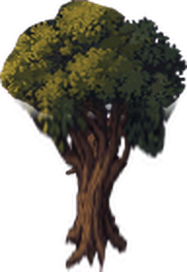
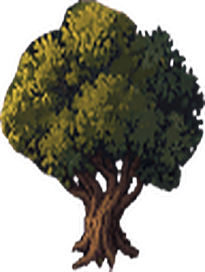
Stop stretching the trees, and paint the brook at brush size
The tall trees were grown by stretching the trunk, which magnified the
painted root flare into splayed legs and dragged leaf lobes down beside the
trunk - the leftovers the user could still see. Both trees are now the
world's own paintings scaled whole: one height factor, one width bias, no
spliced regions, so the trunk and roots keep their authored proportions.

The brook was airbrushed soft at 1:1 because its detail was smaller than a
screen pixel. It is now quantised to six values and repainted with
brush-sized strokes (2-4 px thick, 10-40 px long) along the current, with
broken foam on the upstream rim of every stone. The protected bank, stones
and crossing are still byte-identical.

diff --git a/tools/art/build_tall_trees.py b/tools/art/build_tall_trees.py
@@ -1,18 +1,22 @@
 #!/usr/bin/env python3
 """Build the mature olive and fig used by the painted overworld.
 
-WHY THIS EXISTS (second pass): the first tall trees were painted from new
-high-detail sources — thin bark lines and individual leaves. At the size the
-game draws them (nearly 1:1 on a phone) they read as photographs dropped into a
-chunky painted world: the user said the trees "look out of place" beside the
-characters and the sheep. The trees are now grown from the overworld's *own*
-accepted tree paintings — the same rounded masses, thick trunk, warm palette and
-soft edge — stretched upright: the canopy keeps its authored brushwork and the
-trunk is lengthened, so the tree gains height without gaining a new style.
+WHY THIS EXISTS (third pass): the second pass grew the tall trees by stretching
+the source's trunk. That gained height, but it also magnified the painted root
+flare into long splayed "legs" and dragged leaf lobes down beside the trunk, so
+the user still saw a foreign object with the old tree's leftovers in it.
+
+The trees are now the overworld's own tree paintings, scaled whole: one uniform
+factor to the authored canvas height, then a single horizontal bias that keeps
+the tree upright rather than letting the canopy spread square. Nothing is
+re-drawn, nothing is spliced, and no region is stretched relative to another, so
+the trunk keeps its authored proportions, the roots stay the size the source
+painted them, and every pixel is a resampled pixel of the accepted art. An
+unsharp pass restores the crisp painted edge that plain interpolation softens.
 
 The canvases stay foot-anchored (the last row of alpha is the trunk base), keep
-the runtime's 82/78 world-pixel target, and add no new colours: every pixel is a
-resampled pixel of the source painting. Pillow 13.0.0 reproduces them exactly.
+the runtime's 82/78 world-pixel targets, and add no new colours. Pillow 13.0.0
+reproduces them exactly.
 """
 from pathlib import Path
 import argparse
@@ -22,13 +26,11 @@ from PIL import Image, ImageFilter
 PROPS = Path("art/props_painted")
 OUTPUT = Path("art/props_painted")
 
-# source, canvas height, canopy split (fraction of the cropped art),
-# canopy scale (x, y), trunk scale (y). Width follows the source aspect.
+# output, source, canvas height, horizontal bias, unsharp percent
 TREES = (
-    ("olive_tree_tall.png", "olive_tree.png", 276, 0.70, (1.75, 1.60), 2.0),
-    ("fig_tree_tall.png", "fig_tree_refined.png", 272, 0.68, (2.00, 1.85), 2.2),
+    ("olive_tree_tall.png", "olive_tree.png", 276, 1.30, 95),
+    ("fig_tree_tall.png", "fig_tree_refined.png", 272, 1.30, 95),
 )
-OVERLAP = 14
 
 
 def despill(image):
@@ -38,129 +40,39 @@ def despill(image):
     toward their own luminance in the bark/leaf range, so genuine warm highlights
     (fig flesh, sunlit trunk) survive.
     """
-    image = image.convert("RGBA")
     pixels = image.load()
     for y in range(image.height):
         for x in range(image.width):
             r, g, b, a = pixels[x, y]
-            if a == 0:
+            if a == 0 or a == 255:
                 continue
-            if r > 70 and b > 70 and g < min(r, b) * 0.72 and min(r, b) - g > 24:
-                lum = r * 0.299 + g * 0.587 + b * 0.114
-                pixels[x, y] = (round(lum * 0.92), round(lum * 0.96),
-                                round(lum * 0.72), round(a * 0.55))
+            if r > 120 and b > 110 and g + 30 < min(r, b):
+                lum = round(0.30 * r + 0.59 * g + 0.11 * b)
+                ink = min(lum, 96)
+                pixels[x, y] = (ink, max(0, ink - 6), max(0, ink - 12), a)
     return image
 
 
-def _clean_edge(image):
-    """Neutralise the salmon fringe the props inherited from their chroma key.
-
-    The published prop paintings keep a one-pixel warm rim where the generated
-    source met the magenta background. At the old small size it read as sunlight;
-    enlarged, it reads as a dotted pink outline, which is exactly the sort of
-    detail that made the first tall trees look foreign. Fringed pixels take the
-    median of their opaque, non-fringed neighbours.
-    """
-    image = image.copy()
-    width, height = image.size
-    original = image.load()
-    fringed = []
-    for y in range(height):
-        for x in range(width):
-            r, g, b, a = original[x, y]
-            if a > 40 and r > 130 and r - g > 22 and g - b > 4:
-                fringed.append((x, y))
-    pixels = image.load()
-    for x, y in fringed:
-        candidates = []
-        for dy in range(-2, 3):
-            for dx in range(-2, 3):
-                nx, ny = x + dx, y + dy
-                if not (0 <= nx < width and 0 <= ny < height):
-                    continue
-                r, g, b, a = original[nx, ny]
-                if a < 200 or (r > 130 and r - g > 22 and g - b > 4):
-                    continue
-                candidates.append((r, g, b))
-        if candidates:
-            candidates.sort(key=lambda c: c[0] * 0.299 + c[1] * 0.587 + c[2] * 0.114)
-            r, g, b = candidates[len(candidates) // 2]
-            pixels[x, y] = (r, g, b, original[x, y][3])
-    return image
-
-
-def _feather(image, rows, bottom=True):
-    """Fade one horizontal edge of a layer so the join is not a straight cut."""
-    alpha = image.getchannel("A")
-    pixels = alpha.load()
-    for i in range(min(rows, image.height)):
-        y = image.height - 1 - i if bottom else i
-        scale = (i + 1) / (rows + 1)
-        for x in range(image.width):
-            pixels[x, y] = round(pixels[x, y] * scale)
-    image.putalpha(alpha)
-    return image
-
-
-def _sharpen(image):
-    """Keep the brush edges crisp after a 1.5-3x resample."""
-    r, g, b, a = image.split()
-    rgb = Image.merge("RGB", (r, g, b)).filter(
-        ImageFilter.UnsharpMask(radius=2, percent=40, threshold=2))
-    r, g, b = rgb.split()
-    return Image.merge("RGBA", (r, g, b, a))
-
-
-def grow(source, height, split, canopy_scale, trunk_scale):
-    """Stretch one painted tree upright without introducing new detail.
-
-    The canopy and trunk are one painting, so the tree is first enlarged whole
-    (keeping its brushwork and silhouette), then only the trunk is lengthened:
-    the part below the canopy is resized again and cross-faded into the base
-    over a band that contains nothing but bark. There is no straight seam and
-    no second art style.
-    """
-    art = despill(Image.open(PROPS / source))
-    bounds = art.getchannel("A").getbbox()
+def grow(source, height, bias, unsharp):
+    """Scale the accepted painting whole: one height factor, one width bias."""
+    with Image.open(PROPS / source) as raw:
+        image = despill(raw.convert("RGBA"))
+    bounds = image.getchannel("A").getbbox()
     if bounds is None:
-        raise ValueError("empty tree source: " + source)
-    art = art.crop(bounds)
-    art = _clean_edge(art)
-    width = max(1, round(art.width * canopy_scale[0]))
-    body = art.resize((width, max(1, round(art.height * canopy_scale[1]))),
-                      Image.Resampling.LANCZOS)
-
-    cut = max(1, min(body.height - 2, round(art.height * split * canopy_scale[1])))
-    band = min(24, cut // 2)
-    lower = body.crop((0, cut - band, body.width, body.height))
-    target = height - (cut - band)
-    if target <= lower.height:
-        raise ValueError("tree target is not taller than the source: " + source)
-    stretch = (target - lower.height) / max(1, (body.height - (cut - band)))
-    scale = max(trunk_scale, 1.0 + stretch)
-    lower = lower.resize((lower.width, max(lower.height + 1, round(lower.height * scale))),
-                         Image.Resampling.LANCZOS)
-
-    alpha = lower.getchannel("A")
-    pixels = alpha.load()
-    for y in range(min(band, lower.height)):
-        weight = (y + 1) / (band + 1)
-        for x in range(lower.width):
-            pixels[x, y] = round(pixels[x, y] * weight)
-    lower.putalpha(alpha)
-
-    canvas = Image.new("RGBA", (body.width, max(height, cut - band + lower.height)), (0, 0, 0, 0))
-    canvas.alpha_composite(body, (0, 0))
-    canvas.alpha_composite(lower, (0, cut - band))
-    top = canvas.getchannel("A").getbbox()
-    canvas = canvas.crop((0, 0, canvas.width, top[3]))
-    return canvas.resize((round(canvas.width * height / canvas.height), height),
-                         Image.Resampling.LANCZOS)
+        raise SystemExit("empty source painting: " + source)
+    image = image.crop(bounds)
+    factor = height / image.height
+    width = max(1, round(image.width * factor / bias))
+    scaled = image.resize((width, height), Image.LANCZOS)
+    if unsharp:
+        scaled = scaled.filter(ImageFilter.UnsharpMask(radius=1.2, percent=unsharp,
+                                                       threshold=0))
+    return scaled
 
 
 def build():
-    return {name: grow(source, height, split, canopy, trunk)
-            for name, source, height, split, canopy, trunk in TREES}
+    return {name: grow(source, height, bias, unsharp)
+            for name, source, height, bias, unsharp in TREES}
 
 
 def main():

diff --git a/tools/art/river_detail.py b/tools/art/river_detail.py
@@ -61,8 +61,8 @@ OVERLAP = 110
 # Water is smoother than grass: detail is added at a lower gain and the source
 # field is stretched horizontally first so the strokes read as current rather
 # than as generic texture.
-FINE_GAIN = 0.30
-MID_GAIN = 0.26
+FINE_GAIN = 0.22
+MID_GAIN = 0.20
 COARSE_GAIN = 0.20
 TEAL = (92, 124, 136)
 TEAL_AMOUNT = 0.30
@@ -385,6 +385,103 @@ def _sun_glints(image, mask, seed=5521):
                                  layer.filter(ImageFilter.GaussianBlur(0.5))).convert("RGB")
 
 
+def _posterise(image, mask, levels=6, strength=0.85):
+    """Pull the surface onto a small set of values so it stops looking airbrushed.
+
+    A smooth gradient at 1:1 reads as blur however much grain sits on it; the
+    meadow next to it is crisp because it is built from a handful of flat
+    values. This quantises the water's own luminance into bands and scales each
+    pixel's colour to its band, keeping every hue the painting already has.
+    """
+    import numpy as np
+    rgb = np.asarray(image, np.float32)
+    m = np.asarray(mask, np.uint8) > 200
+    if not m.any():
+        return image
+    lum = rgb @ np.array([0.30, 0.59, 0.11], np.float32)
+    values = lum[m]
+    edges = np.quantile(values, np.linspace(0, 1, levels + 1)[1:-1])
+    band = np.searchsorted(edges, lum, side="right")
+    values = lum[m]
+    band_m = band[m]
+    target = np.array([np.median(values[band_m == i]) if (band_m == i).any() else 0.0
+                       for i in range(levels)], np.float32)[band]
+    scale = np.clip(target / np.maximum(lum, 1.0), 0.55, 1.55)
+    out = rgb * (1.0 + (scale[..., None] - 1.0) * strength)
+    # quantising flattens saturation, so put the stream's own colour back
+    grey = (out @ np.array([0.30, 0.59, 0.11], np.float32))[..., None]
+    out = grey + (out - grey) * 1.20
+    return Image.fromarray(np.clip(out, 0, 255).astype(np.uint8), "RGB")
+
+
+def _flow_strokes(image, mask, seed=6037):
+    """Hard 1-pixel strokes along the current: the detail a brush leaves.
+
+    Soft round dabs average into mush at this scale, so the fine pass is made of
+    short, straight, one-pixel strokes with hard edges, alternating dark
+    undertow and light crest along a slow noise field.
+    """
+    import numpy as np
+    width, height = image.size
+    rgb = np.asarray(image, np.float32)
+    m = np.asarray(mask, np.uint8) > 216
+    rng = random.Random(seed)
+    ys, xs = np.nonzero(m)
+    if len(ys) == 0:
+        return image
+    noise = Image.effect_noise((width, height), 48).point(lambda v: v)
+    field = np.asarray(noise.filter(ImageFilter.GaussianBlur(6)), np.float32) / 255.0
+    out = rgb.copy()
+    # Detail smaller than a screen pixel blurs into mush, so the strokes are
+    # brush-sized (2-4 px thick, 10-40 px long) with real value contrast, the
+    # same scale the meadow's grass tufts are painted at.
+    for _ in range(3400):
+        i = rng.randrange(len(ys))
+        y, x = int(ys[i]), int(xs[i])
+        light = field[y, x] > 0.5
+        gain = 1.0 + (0.24 if light else -0.22) * rng.uniform(0.5, 1.0)
+        length = rng.randint(10, 40)
+        thick = rng.randint(2, 4)
+        slope = rng.uniform(-0.10, 0.10)
+        for step in range(length):
+            xx = x + step
+            yy = int(round(y + slope * step))
+            if not (0 <= xx < width):
+                continue
+            for row in range(yy, yy + thick):
+                if 0 <= row < height and m[row, xx]:
+                    fade = 1.0 if row in (yy, yy + thick - 1) else 0.75
+                    out[row, xx] = np.clip(out[row, xx] * (1.0 + (gain - 1.0) * fade), 0, 255)
+    return Image.fromarray(out.astype(np.uint8), "RGB")
+
+
+def _foam_edges(image, mask, seed=8123):
+    """Bright broken foam on the stones' upstream rim, one pixel wide."""
+    import numpy as np
+    width, height = image.size
+    rgb = np.asarray(image, np.float32)
+    m = np.asarray(mask, np.uint8) > 216
+    near_stone = np.asarray(mask.filter(ImageFilter.MinFilter(9)), np.uint8) > 216
+    rim = m & ~near_stone
+    ys, xs = np.nonzero(rim)
+    if len(ys) == 0:
+        return image
+    rng = random.Random(seed)
+    out = rgb.copy()
+    foam = np.array([226, 240, 232], np.float32)
+    for _ in range(520):
+        i = rng.randrange(len(ys))
+        y, x = int(ys[i]), int(xs[i])
+        length = rng.randint(2, 7)
+        amount = rng.uniform(0.35, 0.70)
+        for step in range(length):
+            yy = y - step // 3
+            xx = x + step
+            if 0 <= xx < width and 0 <= yy < height and m[yy, xx]:
+                out[yy, xx] = out[yy, xx] * (1 - amount) + foam * amount
+    return Image.fromarray(np.clip(out, 0, 255).astype(np.uint8), "RGB")
+
+
 def paint(image):
     """Return the image with only its painted water surface repainted."""
     width, height = image.size
@@ -395,7 +492,7 @@ def paint(image):
     # Remove the old water's hard tile strokes while keeping its depth, the
     # pale ford and the soft shading beneath every stone.
     base = band.filter(ImageFilter.MedianFilter(3))
-    base = ImageChops.blend(base, band.filter(ImageFilter.GaussianBlur(2)), 0.4)
+    base = ImageChops.blend(base, band.filter(ImageFilter.GaussianBlur(1)), 0.3)
     base = _cool(base)
 
     field = detail_field(band.size)
@@ -414,6 +511,9 @@ def paint(image):
     painted = _colour_dabs(painted, weights)
     painted = _current_strokes(painted, weights)
     painted = _sun_glints(painted, weights)
+    painted = _posterise(painted, mask)
+    painted = _flow_strokes(painted, mask)
+    painted = _foam_edges(painted, mask)
 
     # Fade the new surface out inside the mask, then paste strictly inside the
     # binary mask. Every changed pixel is therefore a painted-water pixel, the
